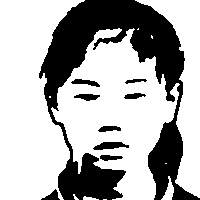
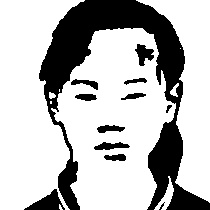
17.10.19 16:26

Changed region(s): [[0.09, 0.0, 1.0, 1.0]]

diff --git a/faceFeature/partitionMethod.py b/faceFeature/partitionMethod.py
@@ -416,8 +416,24 @@ def myThreshold(imgGray,imgSkin,skinPoint,thresh):
                     dst[i,j] = 0
     return dst
 
-def divisionThreshold(imgSKIN,imgFace):
+#计算图片中边缘点的个数
+def computeEdgesPoint(img):
+    sp = img.shape
+    point = 0
+    sum =0
+    for i in range(sp[0]):
+        for j in range(sp[1]):
+            if img[i,j]>100:
+                point +=1
+            sum +=1
+    if point > 0:
+        return 3*point/sum
+    else:
+        return point/sum
+#分区结合边缘检测的方法来进行二值化
+def divisionThreshold(imgSKIN,imgFace,imgCanny):
     useless,theta = meanBrightness(imgSKIN=imgSKIN, imgGRAY=imgFace)
+
     print("平均亮度",theta)
     divisionCount = 30
     #初始化数组大小
@@ -441,7 +457,10 @@ def divisionThreshold(imgSKIN,imgFace):
                 min_th = min(alpha,theta)
                 max_th = max(alpha,theta)
                 #imgSegment[i][j] = myThreshold(imgSegment[i][j],imgSkinSegment[i][j],skinPoint,0.71*thresh) gamma = 0.63 lamda = 0.855 bata = 0.145
-                imgSegment[i][j] = myThreshold(imgSegment[i][j],imgSkinSegment[i][j],skinPoint,gamma*(lamda*max_th+bata*min_th))
+                edges = imgCanny[i*new_h:(i+1)*new_h,j*new_w:(j+1)*new_w]
+                #计算在这一小块中边缘点为多少个
+                edgesPointPercent = computeEdgesPoint(edges)
+                imgSegment[i][j] = myThreshold(imgSegment[i][j],imgSkinSegment[i][j],skinPoint,(1+edgesPointPercent)*gamma*(lamda*max_th+bata*min_th))
     for i in range(divisionCount):
         for j in range(divisionCount):
             dst[i*new_h:(i+1)*new_h,j*new_w:(j+1)*new_w]=imgSegment[i][j]
@@ -485,7 +504,8 @@ def processImg(img):
     #theta = meanBrightness(imgSKIN=imgFace_Skin,imgGRAY=imgFace_Gray)
     #进行阈值化
     cv2.imshow("imgFace_gray",imgFace_Gray)
-    imgFace_thresh,newSkin = divisionThreshold(imgSKIN=imgFace_Skin,imgFace=imgFace_Gray)
+    canny = cv2.Canny(imgFace_Gray,40,120)
+    imgFace_thresh,newSkin = divisionThreshold(imgSKIN=imgFace_Skin,imgFace=imgFace_Gray,imgCanny=canny)
     #ret,imgFace_thresh = cv2.threshold(imgFace_Gray,0.7*int(theta),255,cv2.THRESH_BINARY)
     cv2.imshow("face_threshold",imgFace_thresh)
     #轮廓补充
@@ -506,18 +526,18 @@ def createResult():
         i = i + 1
 
 def unitTest():
-    img = cv2.imread("img/15.jpg",1)
+    img = cv2.imread("img/2.jpg",1)
     img = cv2.medianBlur(img,3)
     dst = processImg(img)
     dst = cv2.medianBlur(dst,3)
-    #dst = RemoveSelectRegion(dst,10,0,0,1)
+    dst = RemoveSelectRegion(dst,20,0,0,1)
     dst = delete_jut(dst,1,1,1)
     dst = delete_jut(dst,1,1,0)
     cv2.imshow("result",dst)
 if __name__ == '__main__':
-    gamma = 0.62
+    gamma = 0.5
     lamda = 0.6700
     bata = 0.3300
-    unitTest()
+    createResult()
     cv2.waitKey(0)
 

diff --git a/faceFeature/pythonForTest.py b/faceFeature/pythonForTest.py
@@ -4,10 +4,9 @@ import numpy as np
 from matplotlib import pyplot as plt
 
 if __name__ == '__main__':
-    img = cv2.imread("img/15.jpg",0)
-    edges = cv2.Canny(img,30,90)
+    img = cv2.imread("img/1.jpg",0)
+    img = cv2.medianBlur(img,3)
+    edges = cv2.Canny(img,40,90)
     cv2.imshow("img",img)
     cv2.imshow("edges",edges)
-    cv2.waitKey(0)
-
     cv2.waitKey(0)
